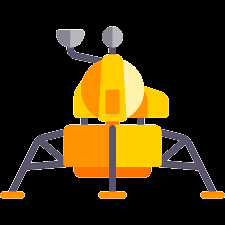
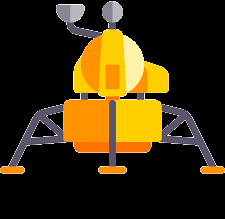
problems with Math.Asin rad <-> degrees

Changed region(s): [[0.0, 0.0, 1.0, 0.9041]]

diff --git a/Gui/Utils.cs b/Gui/Utils.cs
@@ -1,0 +1,65 @@
+using System;
+using System.Drawing;
+
+namespace Gui
+{
+    public static class Utils
+    {
+        public static Bitmap RotateImage(Image b, float angle)
+        {
+            // The original bitmap needs to be drawn onto a new bitmap which will probably be bigger 
+            // because the corners of the original will move outside the original rectangle.
+            // An easy way (OK slightly 'brute force') is to calculate the new bounding box is to calculate the positions of the 
+            // corners after rotation and get the difference between the maximum and minimum x and y coordinates.
+            var wOver2 = b.Width / 2.0f;
+            var hOver2 = b.Height / 2.0f;
+            var radians = -(angle / 180.0 * Math.PI);
+            // Get the coordinates of the corners, taking the origin to be the centre of the bitmap.
+            var corners = new[]
+            {
+                new PointF(-wOver2, -hOver2),
+                new PointF(+wOver2, -hOver2),
+                new PointF(+wOver2, +hOver2),
+                new PointF(-wOver2, +hOver2)
+            };
+
+            for (var i = 0; i < 4; i++)
+            {
+                var p = corners[i];
+                var newP = new PointF((float)(p.X * Math.Cos(radians) - p.Y * Math.Sin(radians)),
+                    (float)(p.X * Math.Sin(radians) + p.Y * Math.Cos(radians)));
+                corners[i] = newP;
+            }
+
+            // Find the min and max x and y coordinates.
+            var minX = corners[0].X;
+            var maxX = minX;
+            var minY = corners[0].Y;
+            var maxY = minY;
+            for (var i = 1; i < 4; i++)
+            {
+                var p = corners[i];
+                minX = Math.Min(minX, p.X);
+                maxX = Math.Max(maxX, p.X);
+                minY = Math.Min(minY, p.Y);
+                maxY = Math.Max(maxY, p.Y);
+            }
+
+            // Get the size of the new bitmap.
+            var newSize = new SizeF(maxX - minX, maxY - minY);
+            // ...and create it.
+            var returnBitmap = new Bitmap((int)Math.Ceiling(newSize.Width), (int)Math.Ceiling(newSize.Height));
+            // Now draw the old bitmap on it.
+            using (var g = Graphics.FromImage(returnBitmap))
+            {
+                g.TranslateTransform(newSize.Width / 2.0f, newSize.Height / 2.0f);
+                g.RotateTransform(angle);
+                g.TranslateTransform(-b.Width / 2.0f, -b.Height / 2.0f);
+
+                g.DrawImage(b, 0, 0);
+            }
+
+            return returnBitmap;
+        }
+    }
+}

diff --git a/Gui/LanderGui.cs b/Gui/LanderGui.cs
@@ -53,16 +53,25 @@ namespace Gui
 
         private void DrawLander(Graphics graphics)
         {
-            var landerPosition = new Point((int)_lander.Position.X, (int)_lander.Position.Y);
-            graphics.DrawImage(_landerImage, landerPosition);
+            var landerPosition = new Point((int)_lander.Position.X + 550, -(int)_lander.Position.Y + 200);
+            using (var rotatedLanderImage = Utils.RotateImage(_landerImage, (float)_lander.OrientationAngle))
+                graphics.DrawImage(rotatedLanderImage, landerPosition);
         }
 
         private void LanderGui_KeyDown(object sender, KeyEventArgs e)
         {
             switch (e.KeyCode)
             {
-                case Keys.Space:
+                case Keys.W:
                     _lander.IsMainEngineFiring = true;
+                    break;
+
+                case Keys.A:
+                    _lander.IsRightThrusterFiring = true;
+                    break;
+
+                case Keys.D:
+                    _lander.IsLeftThrusterFiring = true;
                     break;
             }
         }
@@ -71,14 +80,23 @@ namespace Gui
         {
             switch (e.KeyCode)
             {
-                case Keys.Space:
+                case Keys.W:
                     _lander.IsMainEngineFiring = false;
+                    break;
+
+                case Keys.A:
+                    _lander.IsRightThrusterFiring = false;
+                    break;
+
+                case Keys.D:
+                    _lander.IsLeftThrusterFiring = false;
                     break;
             }
         }
 
         private void LanderGui_SizeChanged(object sender, System.EventArgs e)
         {
+            _buffer.Dispose();
             _buffer = new Bitmap(canvas.Width, canvas.Height);
         }
     }

diff --git a/LunarLander/Tests/VectorTest.cs b/LunarLander/Tests/VectorTest.cs
@@ -1,4 +1,5 @@
-using FluentAssertions;
+using System;
+using FluentAssertions;
 using LunarLander;
 using Microsoft.VisualStudio.TestTools.UnitTesting;
 
@@ -14,6 +15,21 @@ namespace Tests
 
             testObject.X.Should().Be(0);
             testObject.Y.Should().Be(0);
+        }
+
+        [TestMethod]
+        public void When_Then2()
+        {
+            const double rad90 = 90 * Math.PI / 180;
+
+            Math.Sin(rad90).Should().Be(1);
+            Math.Sin(0).Should().Be(0);
+
+            Math.Asin(Math.Sin(rad90)).Should().Be(rad90);
+            Math.Sin(Math.Asin(0.5)).Should().Be(0.5);
+
+            Math.Asin(0).Should().Be(0);
+            Math.Asin(-1).Should().Be(-rad90);
         }
     }
 }

diff --git a/LunarLander/Vector.cs b/LunarLander/Vector.cs
@@ -17,7 +17,7 @@ namespace LunarLander
         public Vector(double magnitude, double angle)
         {
             Magnitude = magnitude;
-            Angle = angle;
+            Angle = angle % 360;
             _components = new Lazy<(double x, double y)>(ToComponents);
         }
 
@@ -31,8 +31,8 @@ namespace LunarLander
 
         private (double, double) ToComponents()
         {
-            var x = Magnitude * Math.Cos(Angle);
-            var y = Magnitude * Math.Sin(Angle);
+            var x = Magnitude * Utils.Cos(Angle);
+            var y = Magnitude * Utils.Sin(Angle);
 
             return (x, y);
         }

diff --git a/LunarLander/Extensions.cs b/LunarLander/Extensions.cs
@@ -2,14 +2,14 @@
 
 namespace LunarLander
 {
-    public static class TupleExtensions
+    public static class Extensions
     {
         public static Vector ToVector(this (double x, double y) tuple)
         {
             if (IsCloseToZero(tuple.x) && IsCloseToZero(tuple.y)) return Vector.Zero;
 
             var resultMagnitude = Math.Sqrt(tuple.x * tuple.x + tuple.y * tuple.y);
-            var resultAngle = Math.Asin(tuple.y / resultMagnitude);
+            var resultAngle = Utils.Asin(tuple.y / resultMagnitude);
 
             return new Vector(resultMagnitude, resultAngle);
         }

diff --git a/LunarLander/Utils.cs b/LunarLander/Utils.cs
@@ -1,0 +1,13 @@
+using System;
+
+namespace LunarLander
+{
+    public static class Utils
+    {
+        public static double Sin(double angle) => Math.Sin(ToRadians(angle));
+        public static double Cos(double angle) => Math.Cos(ToRadians(angle));
+        public static double Asin(double angle) => ToRadians(Math.Asin(angle));
+
+        private static double ToRadians(double angle) => angle * Math.PI / 180.0;
+    }
+}
